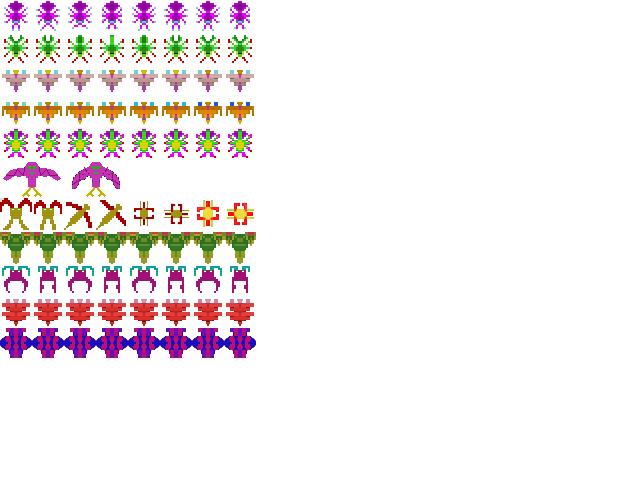
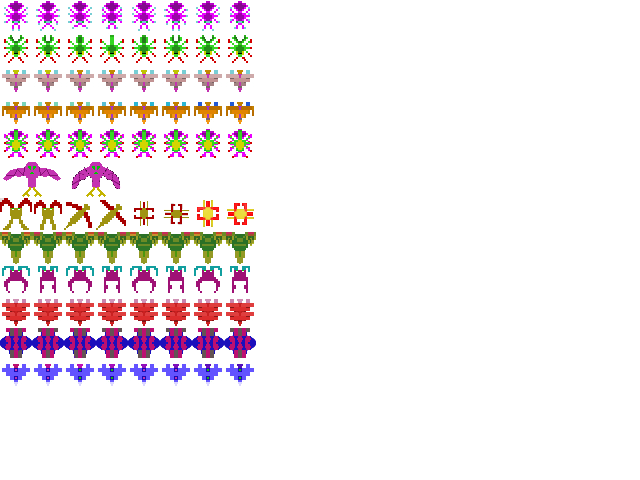
Add files via upload

Changed region(s): [[0.0, 0.6875, 0.4062, 0.8125]]

diff --git a/src/level.js b/src/level.js
@@ -306,8 +306,8 @@ export default class Level {
         new Enemy(this.screenWidth / 2 + 84, -50, 270, 6, "./enemies.png"),
         new Enemy(this.screenWidth / 2 + 184, -50, 270, 6, "./enemies.png"),
 
-        new Enemy(this.screenWidth / 2 - 216, -120, 270, 7, "./enemies.png"),
-        new Enemy(this.screenWidth / 2 - 16, -120, 270, 7, "./enemies.png"),
+        new Enemy(this.screenWidth / 2 - 216, -120, 270, 10, "./enemies.png"),
+        new Enemy(this.screenWidth / 2 - 16, -120, 270, 10, "./enemies.png"),
         new Enemy(this.screenWidth / 2 + 184, -120, 270, 7, "./enemies.png"),
         new Enemy(this.screenWidth / 2 - 216, -300, 270, 7, "./enemies.png"),
         new Enemy(this.screenWidth / 2 - 16, -300, 270, 7, "./enemies.png"),

diff --git a/src/enemy.js b/src/enemy.js
@@ -54,6 +54,8 @@ export default class Enemy {
       this.paused = false; //bonus enemy will appear mid-level - as enemies are unpaused during game initialisation, this one won't be so must be unpaused on creation here
       this.width = 28;
       this.height = 28;
+    } else if (this.enemyType === 10) {
+      this.sourceY = 360;
     }
 
     this.numberOfFrames = 8;
